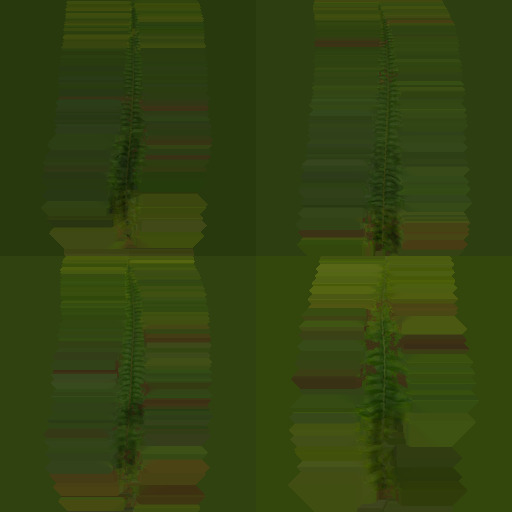
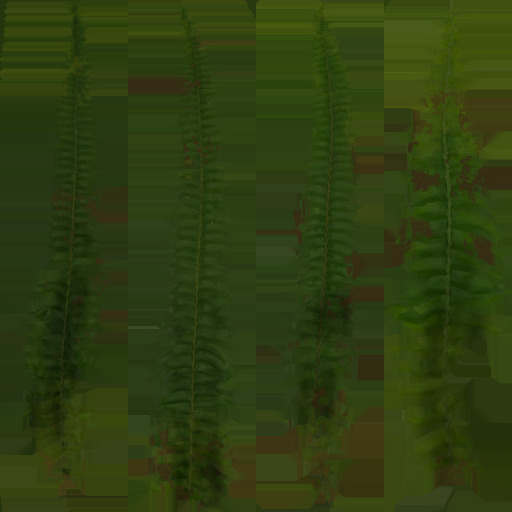
real fern rosettes with arching fronds, grass props without stray flowers

diff --git a/tools/make_foliage.py b/tools/make_foliage.py
@@ -638,9 +638,45 @@ def clump(name, seed, src, diff, alpha, picks, size=0.9, cards=4, count=1, sprea
             ang = q * math.pi / cards + rng.uniform(0, 0.4)
             right = np.array([math.cos(ang), 0, math.sin(ang)])
             s = size * rng.uniform(0.8, 1.15)
-            rect = rects[int(rng.integers(0, len(rects)))]
+            rect = rects[int(rng.integers(0, len(rects) - (1 if flowers else 0)))]
             m.card(base, right, np.array([rng.normal(0, 0.1), 1.0, rng.normal(0, 0.1)]) / 1.01, s, s, rect,
                    np.array([0, 1.0, 0]), sway=1.0)
+    save_tile(ROOT / "loophole" / "data" / "tiles", name, tile, ntile, rtile)
+    return m.save(name)
+
+
+def fern(name, seed, src, size=1.0, fronds=13, tint=(0.62, 0.72, 0.5)):
+    rng = np.random.default_rng(seed)
+    im = load_rgba(src, "fern_02__Diffuse.jpg", "fern_02__Alpha.png")
+    sp = sorted(sprites(im, 6000), key=lambda s: -s.size[0] * s.size[1])[:4]
+    T = TILE // 2
+    tile = np.zeros((T, T, 3), np.float32)
+    ntile = np.zeros_like(tile)
+    ntile[..., :2] = 0.5
+    ntile[..., 2] = 1.0
+    rtile = np.zeros_like(tile)
+    cw = T // 4
+    for k, s in enumerate(sp):
+        sc = min(cw / s.size[0], T / s.size[1])
+        r = s.resize((max(1, int(s.size[0] * sc)), max(1, int(s.size[1] * sc))), Image.LANCZOS)
+        cell = Image.new("RGBA", (cw, T), (0, 0, 0, 0))
+        cell.alpha_composite(r, ((cw - r.size[0]) // 2, T - r.size[1]))
+        al, nm, rm = rgba_to_maps(cell, 0.6)
+        tile[:, k * cw:(k + 1) * cw] = al * np.array(tint)
+        ntile[:, k * cw:(k + 1) * cw] = nm
+        rtile[:, k * cw:(k + 1) * cw] = rm
+    m = Mesh()
+    for f in range(fronds):
+        ang = 2 * math.pi * f / fronds + rng.uniform(-0.25, 0.25)
+        out = np.array([math.cos(ang), 0.0, math.sin(ang)])
+        tilt = math.radians(rng.uniform(28, 62))
+        upv = out * math.sin(tilt) + np.array([0, 1.0, 0]) * math.cos(tilt)
+        right = np.array([-out[2], 0.0, out[0]])
+        L = size * rng.uniform(0.7, 1.05)
+        k = int(rng.integers(0, len(sp)))
+        rect = (k / 4, 0.0, (k + 1) / 4, 1.0)
+        m.card(out * 0.04, right, upv, L * 0.26, L, rect, upv * 0.3 + np.array([0, 0.9, 0]), sway=1.0,
+               bend=rng.uniform(0.25, 0.45), rows=4)
     save_tile(ROOT / "loophole" / "data" / "tiles", name, tile, ntile, rtile)
     return m.save(name)
 
@@ -704,8 +740,7 @@ def main():
     print("grass", clump("grass", 4, src, "grass_medium_01__Diffuse.jpg", "grass_medium_01__Alpha.png", 5, size=0.7,
                          cards=3, count=3, spread=0.3, rough=0.75, tint=(0.88, 0.92, 0.7), region=(0.62, 1.0),
                          flowers=True))
-    print("fern", clump("fern", 6, src, "fern_02__Diffuse.jpg", "fern_02__Alpha.png", 0, size=1.0, cards=6, count=1,
-                        rough=0.6, tint=(0.7, 0.78, 0.54)))
+    print("fern", fern("fern", 6, src))
 
 
 if __name__ == "__main__":
